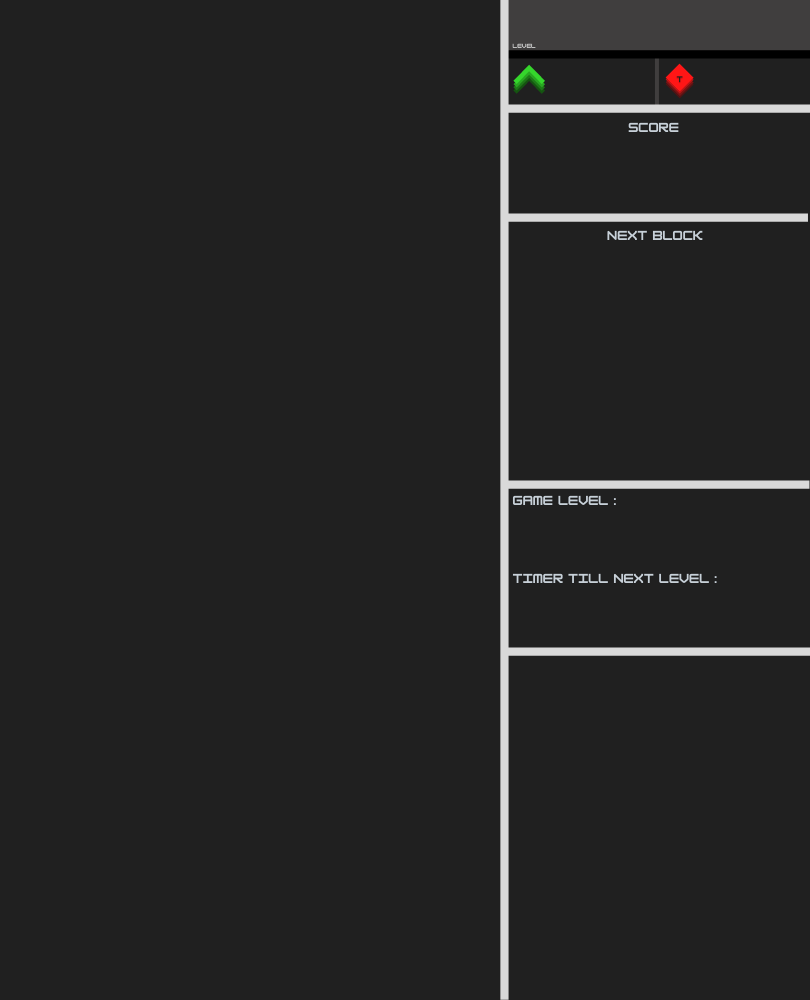
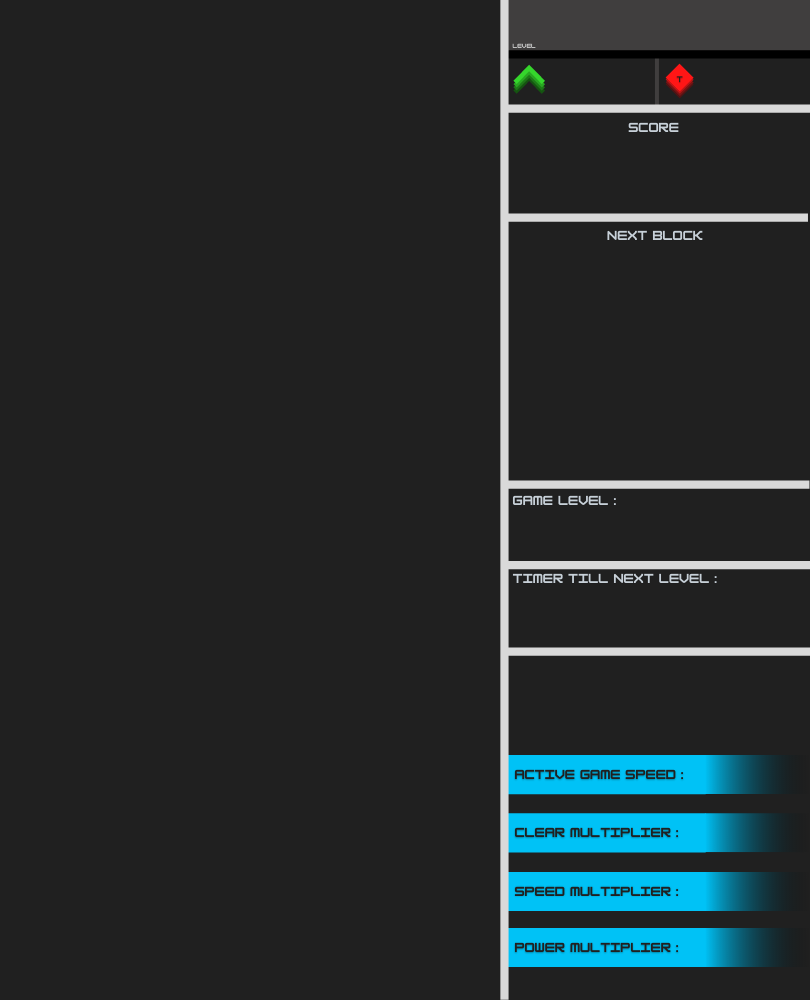
Added new way to view multipliers

Changed region(s): [[0.6173, 0.744, 0.9568, 0.992], [0.6173, 0.558, 1.0, 0.589]]

diff --git a/tetris/Python-Project/screens/game.py b/tetris/Python-Project/screens/game.py
@@ -274,23 +274,20 @@ def game():
             const.WINDOW.blit(game_level_display, (520, 530))
 
             # Game speed display
-            game_level_display = const.sudo_small_font.render("GAME SPEED: " + str(tick), True, const.BLUE)
-            const.WINDOW.blit(game_level_display, (520, 750))
+            game_level_display = const.sudo_medium_font.render(str(tick), True, const.DARK_GREY)
+            const.WINDOW.blit(game_level_display, (690, 765))
 
-            # Game mult_display
-            game_level_display = const.sudo_small_font.render("ROW CLEAR MULTIPLIER: " + str(1 + (lines_cleared * .3)),
-                                                              True, const.BLUE)
-            const.WINDOW.blit(game_level_display, (520, 780))
+            # Clear mult_display
+            game_level_display = const.sudo_medium_font.render(str((1 + (lines_cleared * .3)).__round__(2)), True, const.DARK_GREY)
+            const.WINDOW.blit(game_level_display, (690, 822))
 
-            # Game mult_display
-            game_level_display = const.sudo_small_font.render("TICK MULTIPLIER: " + str(tick_multiplier),
-                                                              True, const.BLUE)
-            const.WINDOW.blit(game_level_display, (520, 810))
+            # Speed mult_display
+            game_level_display = const.sudo_medium_font.render(str(tick_multiplier), True, const.DARK_GREY)
+            const.WINDOW.blit(game_level_display, (690, 880))
 
-            # Game mult_display
-            game_level_display = const.sudo_small_font.render("POWER-UP MULTIPLIER: " + str(p3_multiplier),
-                                                              True, const.BLUE)
-            const.WINDOW.blit(game_level_display, (520, 840))
+            # Power mult_display
+            game_level_display = const.sudo_medium_font.render(str(p3_multiplier), True, const.DARK_GREY)
+            const.WINDOW.blit(game_level_display, (690, 937))
 
             # Power-ups Display ---------------------------------------------------------------------------------------
             if (pow_timer - p1_last_used) < const.pow_time_to_refresh[
